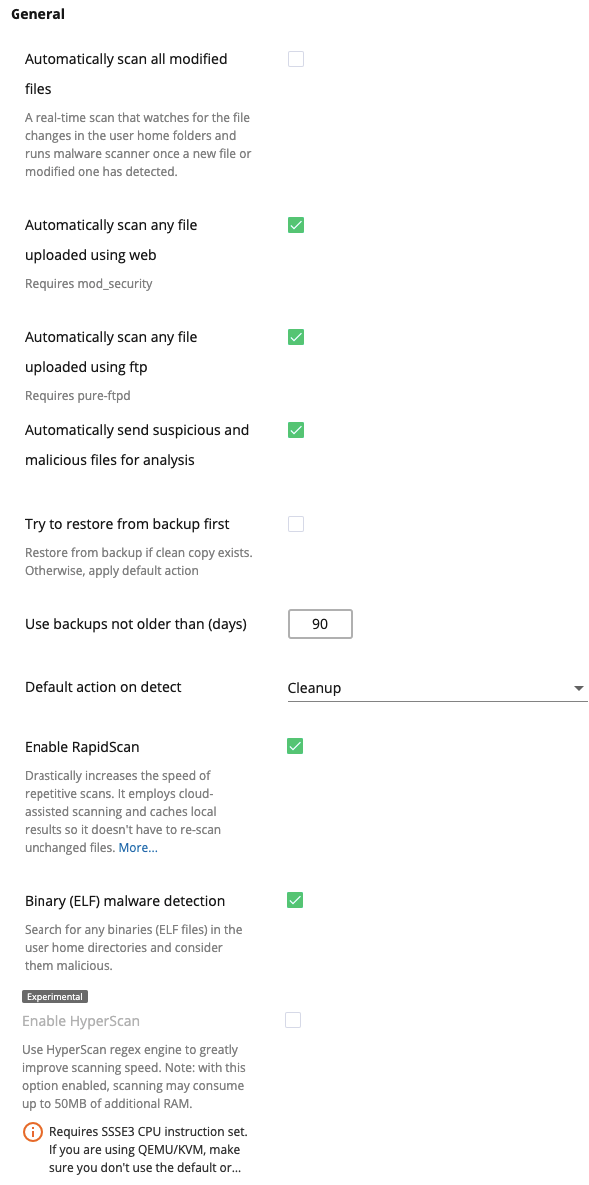
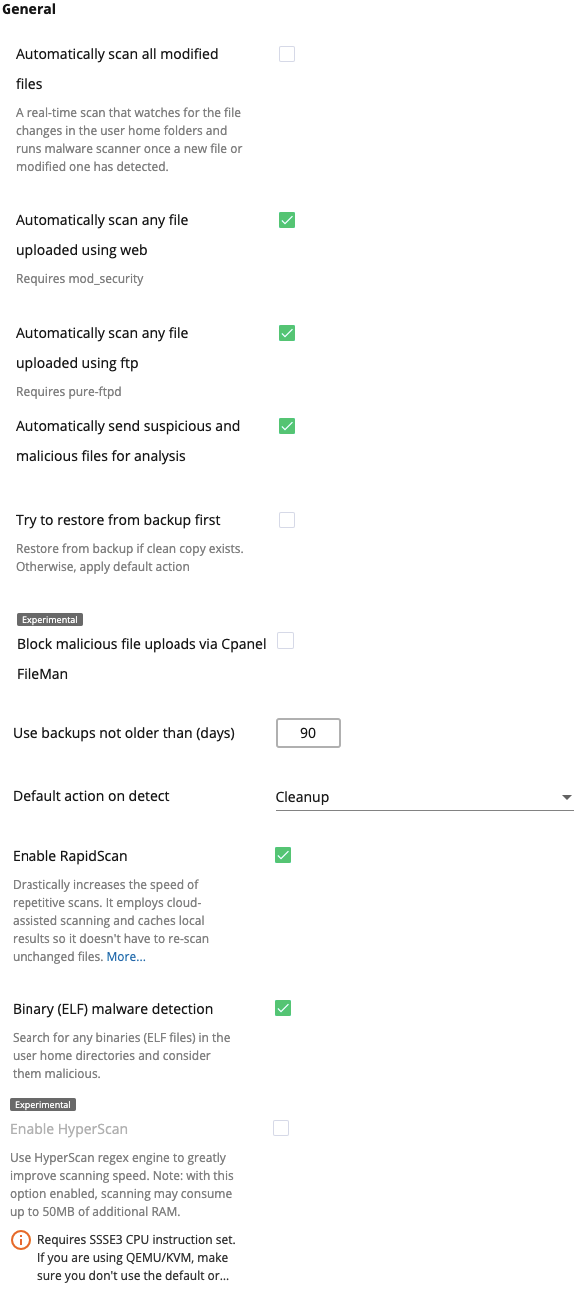
PT-2222: Imunify360 v.5.10 documentation

diff --git a/docs/config_file_description/README.md b/docs/config_file_description/README.md
@@ -137,6 +137,8 @@ that were uploaded via http/https. Note that it requires <a href="https://modsec
 <td># defines what part of all files will be rescanned during each scan. For example, if set 10 then 1/10 part of all files will be rescanned. The default value `null` - means "choose frequency based on scan schedule". E.g. month - 1, week - 5, day - 10.</td></tr>
 <tr><td><span class="notranslate">hyperscan: False</span></td>
 <td># allows to use (<span class="notranslate">True</span>) the regex matching Hyperscan library in Malware Scanner to greatly improve the scanning speed. <span class="notranslate">False</span> is the default value. Hyperscan requires its own signatures set that will be downloaded from the files.imunify360.com and compiled locally.<br><b>Platform requirements</b>:<br>* Hyperscan supports Debian, Ubuntu and CentOS/CloudLinux 7 and later.<br>* SSE3 processor instructions support. It is quite common nowadays, but may be lacking in virtual environments or in some rather old servers.</td></tr>
+<tr><td><span class="notranslate">enable_scan_cpanel: False</span></td>
+<td># enable (<span class="notranslate">True</span>) blocking malicious file uploads via cPanel File Manager. The default value is <span class="notranslate">False</span>. The type of operations processed are: edits and saves</td></tr>
 <tr>
 <th colspan="2" align="left"><span class="notranslate">CAPTCHA:</span></th></tr>
 <tr><td><span class="notranslate">cert_refresh_timeout: 3600</span></td>

diff --git a/docs/dashboard/README.md b/docs/dashboard/README.md
@@ -1690,6 +1690,7 @@ Read [CXS integration](/ids_integration/#cxs-integration) documentation carefull
   :::
 * <span class="notranslate">_Automatically send suspicious and malicious files for analysis_</span> – malicious and suspicious files will be sent to the Imunify360 Team for analysis automatically.
 * <span class="notranslate">_Try to restore from backup first_</span> – allows to restore file as soon as it was detected as malicious from backup if a clean copy exists. If a clean copy does not exist or it is outdated, default action will be applied. See also <span class="notranslate">[CloudLinux Backup](/dashboard/#backups)</span>.
+* <span class="notranslate">_Block malicious file uploads via Cpanel FileMan_</span><sup>_Experimental_</sup> – enable blocking malicious file uploads via cPanel File Manager. Also, the file operations via cPanel File Manager that turn out to be malicious are blocked. The type of operations processed are: edits and saves.
 * <span class="notranslate">_Use backups not older than (days)_</span> – allows to set the a maximum age of a clean file.
 * <span class="notranslate">_Default action on detect_</span> – configure Malware Scanner actions when detecting malicious activity:
   * <span class="notranslate">Just display in dashboard</span>
